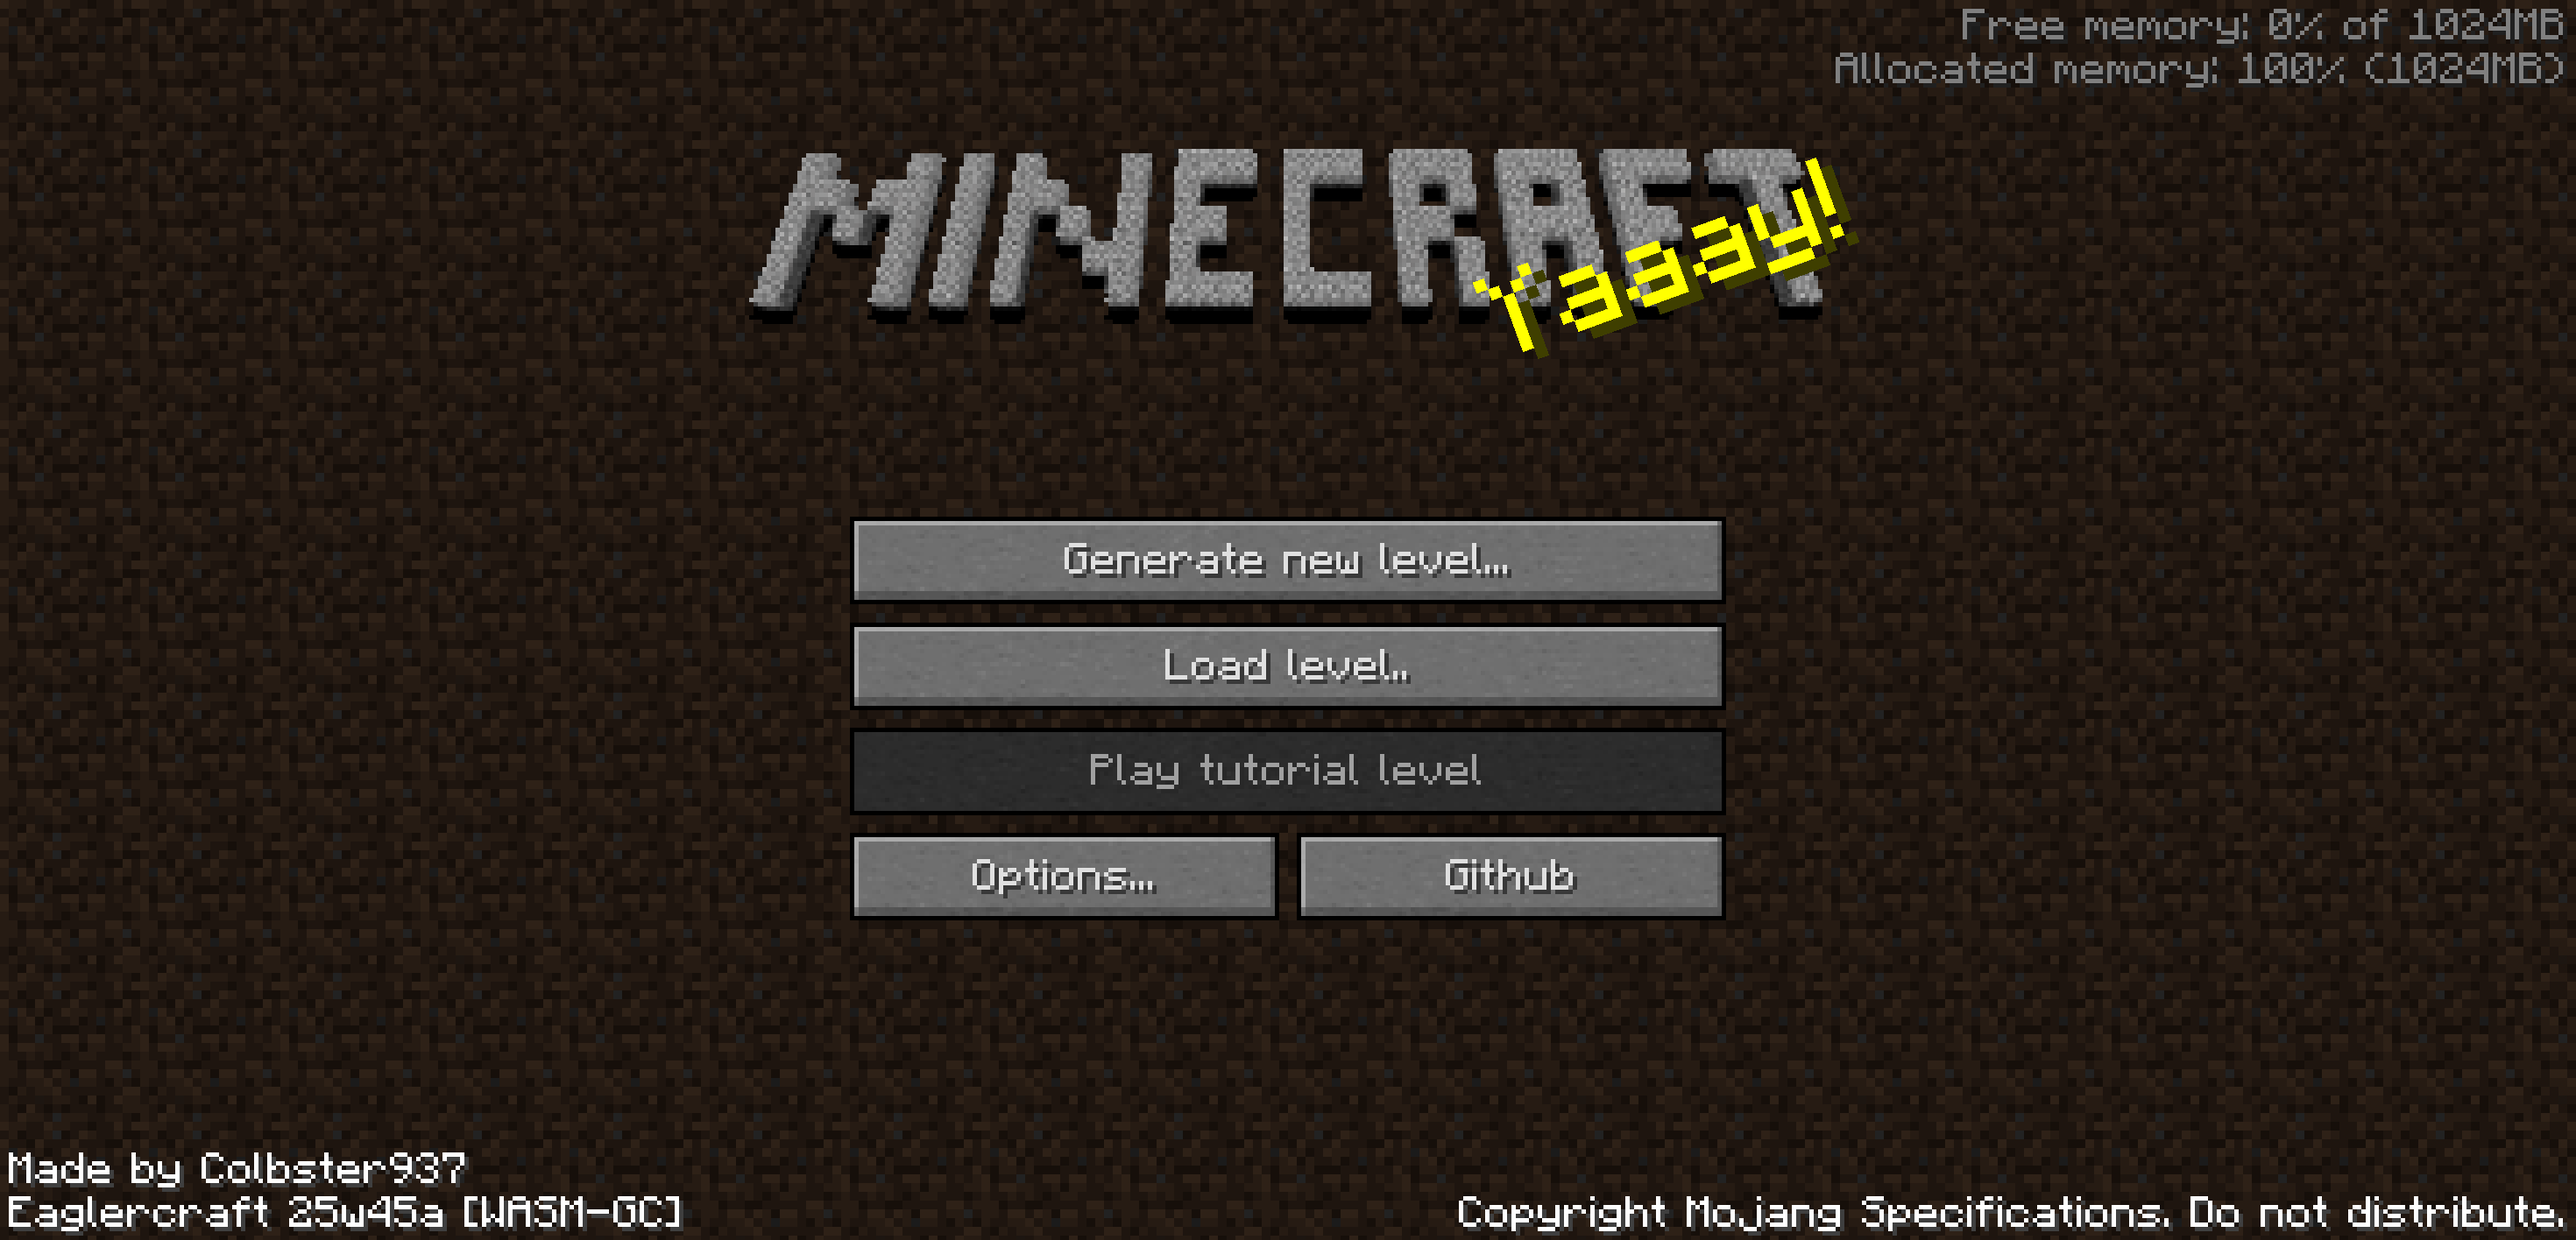
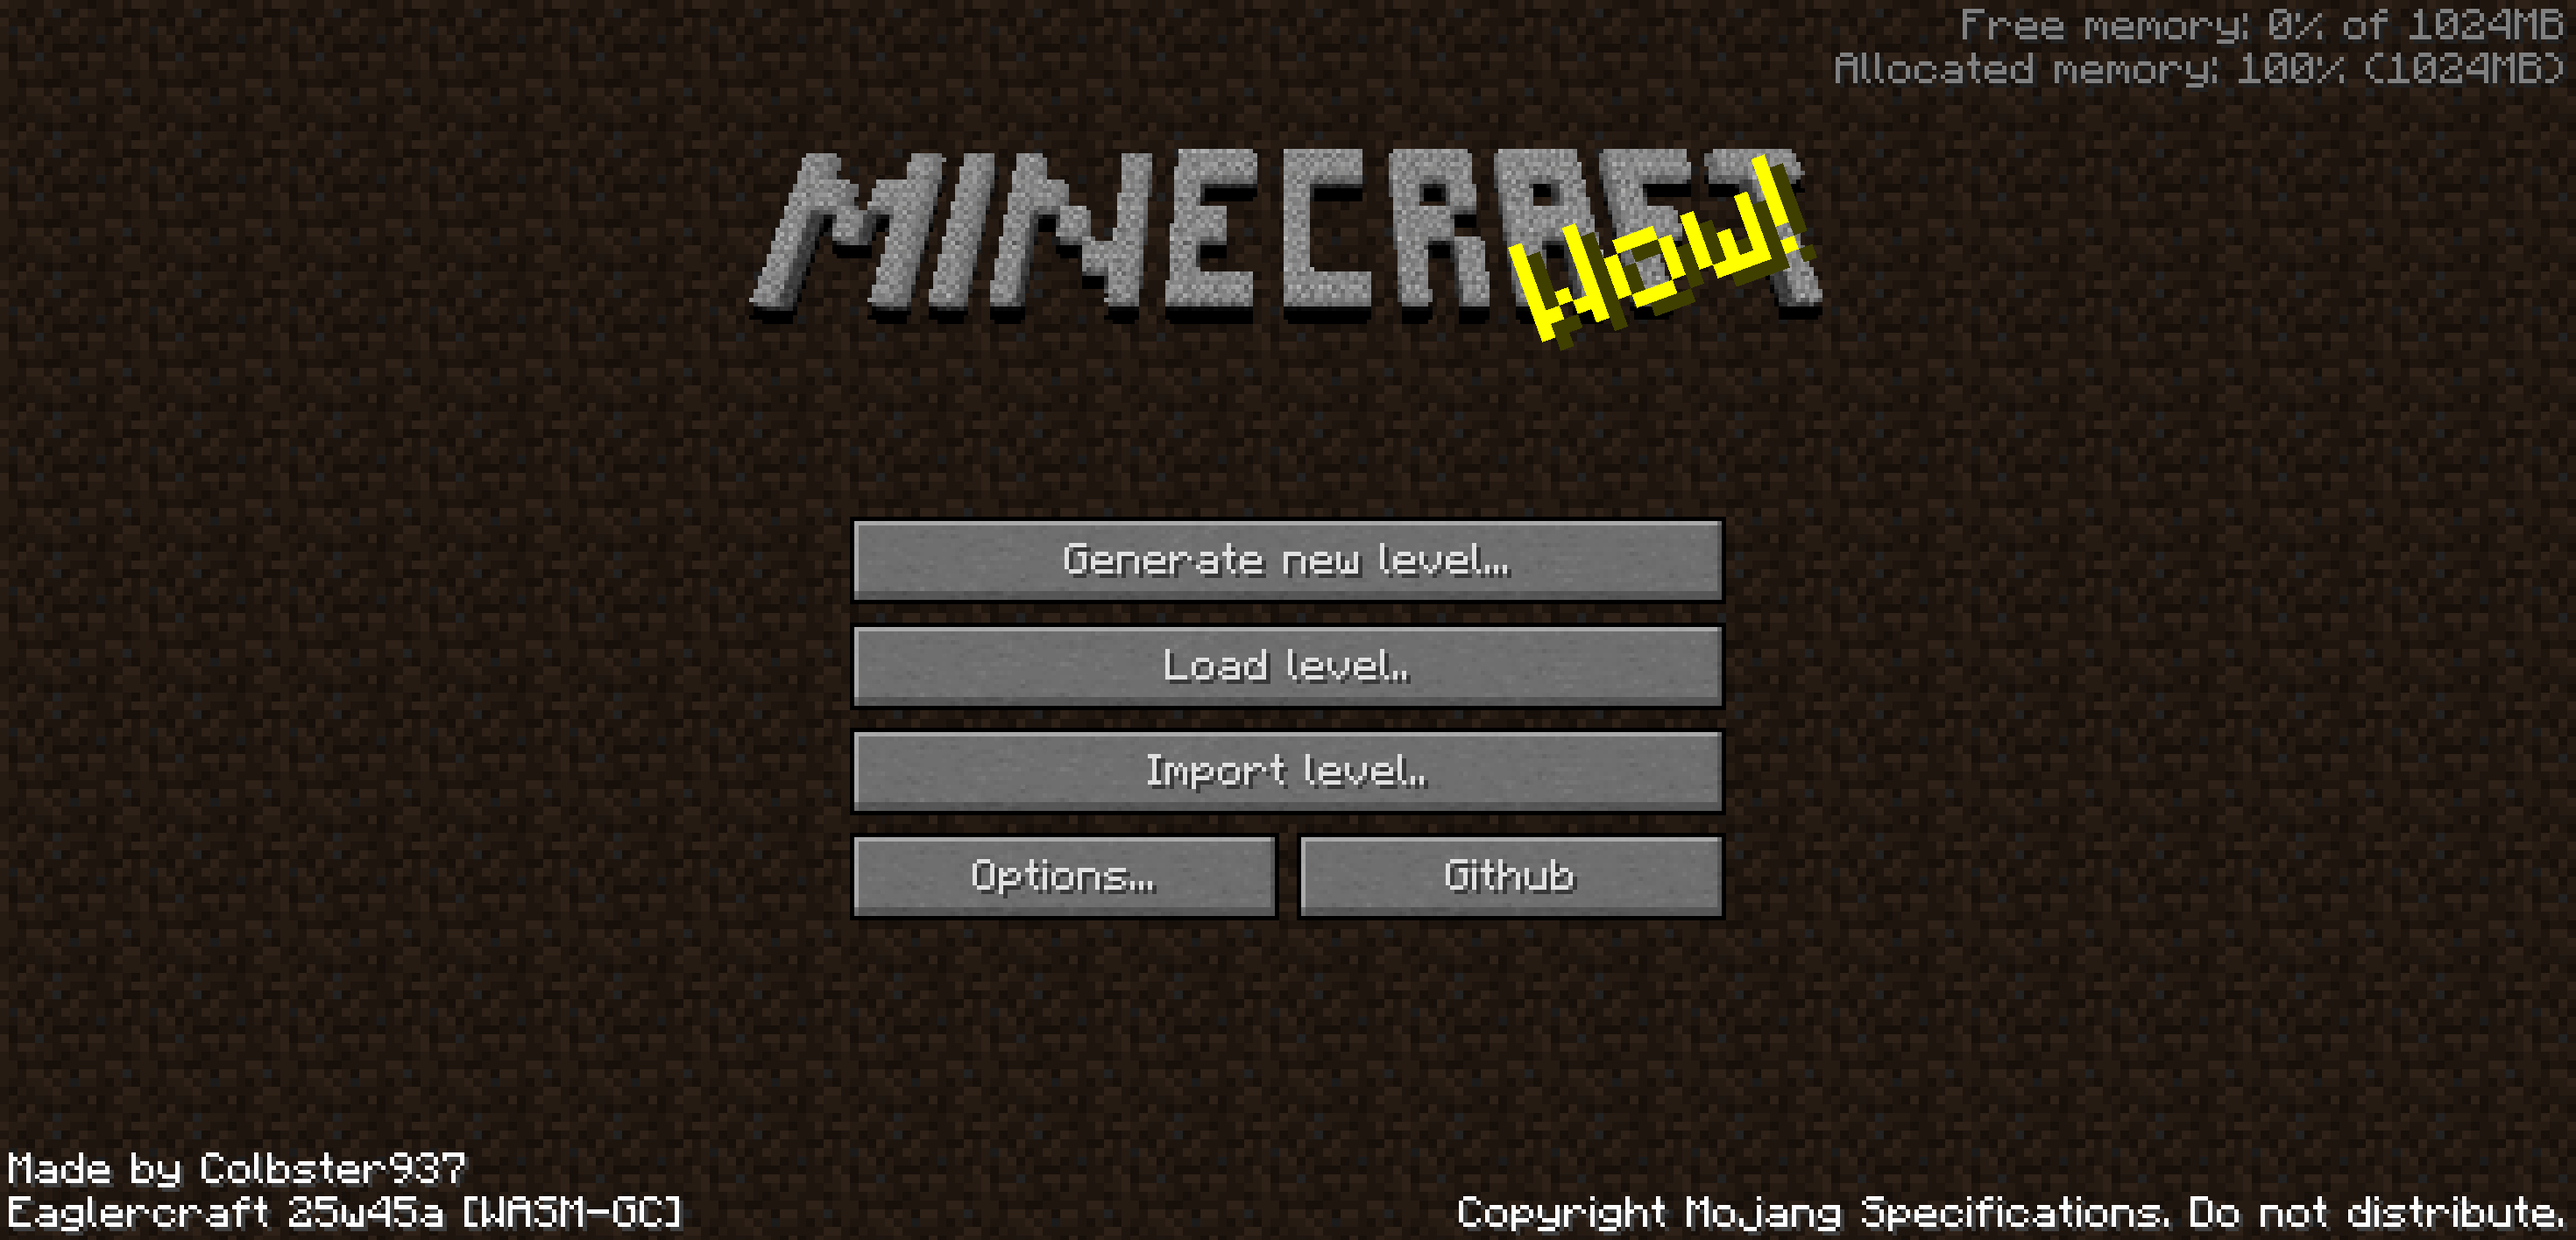
add level importing

Changed region(s): [[0.3095, 0.5904, 0.681, 0.6525], [0.5571, 0.1243, 0.7429, 0.2797]]

diff --git a/src/game/java/net/minecraft/client/gui/GuiIngameMenu.java b/src/game/java/net/minecraft/client/gui/GuiIngameMenu.java
@@ -10,8 +10,8 @@ public final class GuiIngameMenu extends GuiScreen {
 		this.controlList.clear();
 		this.controlList.add(new GuiButton(0, this.width / 2 - 100, this.height / 4, "Options..."));
 		this.controlList.add(new GuiButton(1, this.width / 2 - 100, this.height / 4 + 24, "Generate new level..."));
-		this.controlList.add(new GuiButton(2, this.width / 2 - 100, this.height / 4 + 48, "Save level.."));
-		this.controlList.add(new GuiButton(3, this.width / 2 - 100, this.height / 4 + 72, /* "Load */ "Export level.."));
+		this.controlList.add(new GuiButton(2, this.width / 2 - 100, this.height / 4 + 48, /* "Save */ "Export level.."));
+		this.controlList.add(new GuiButton(3, this.width / 2 - 100, this.height / 4 + 72, /* "Load */ "Import level.."));
 		this.controlList.add(new GuiButton(4, this.width / 2 - 100, this.height / 4 + 120, "Back to game"));
 		if(this.mc.session == null) {
 			((GuiButton)this.controlList.get(2)).enabled = false;
@@ -31,12 +31,11 @@ public final class GuiIngameMenu extends GuiScreen {
 
 		if(this.mc.session != null) {
 			if(var1.id == 2) {
-				LevelUtils.save();
+				LevelUtils.export();
 			}
 
 			if(var1.id == 3) {
-				LevelUtils.export();
-				// LevelUtils.load();
+				LevelUtils.load(true);
 			}
 		}
 

diff --git a/src/game/java/net/minecraft/client/GuiMainMenu.java b/src/game/java/net/minecraft/client/GuiMainMenu.java
@@ -31,8 +31,8 @@ public final class GuiMainMenu extends GuiScreen {
 		this.controlList.add(b = new GuiButton(1, this.width / 2 - 100, this.height / 4 + 48, "Generate new level..."));
 		this.controlList.add(b = new GuiButton(2, this.width / 2 - 100, this.height / 4 + 72, "Load level.."));
 		b.enabled = LevelUtils.savedLevel();
-		this.controlList.add(b = new GuiButton(3, this.width / 2 - 100, this.height / 4 + 96, "Play tutorial level"));
-		b.enabled = false;
+		this.controlList.add(b = new GuiButton(3, this.width / 2 - 100, this.height / 4 + 96, "Import level.."));
+		// b.enabled = false;
 		this.controlList.add(b = new GuiButton(0, this.width / 2 - 100, this.height / 4 + 120, 98, 20, "Options..."));
 		this.controlList.add(b = new GuiButton(4, this.width / 2 + 2, this.height / 4 + 120, 98, 20, "Github"));
 		/* ((GuiButton)this.controlList.get(2)).enabled = false;
@@ -52,7 +52,11 @@ public final class GuiMainMenu extends GuiScreen {
 		}
 
 		if(this.mc.session != null && var1.id == 2) {
-			LevelUtils.load();
+			LevelUtils.load(false);
+		}
+
+		if(this.mc.session != null && var1.id == 3) {
+			LevelUtils.load(true);
 		}
 
 		if(var1.id == 4) {

diff --git a/src/main/java/dev/colbster937/eaglercraft/LevelUtils.java b/src/main/java/dev/colbster937/eaglercraft/LevelUtils.java
@@ -59,10 +59,11 @@ public class LevelUtils {
     }
   }
 
-  public static void load() {
-    if (savedLevel())
+  public static void load(boolean upload) {
+    if (!upload && savedLevel())
       loadLevel(lf.getAllBytes());
-    // EagRuntime.displayFileChooser("minecraft/mclevel", ".mclevel");
+    else if (upload)
+      EagRuntime.displayFileChooser("minecraft/mclevel", ".mclevel");
   }
 
   private static void loadLevel(byte[] data) {
@@ -79,8 +80,10 @@ public class LevelUtils {
   }
 
   public static void tick(int i) {
-    if (i == 1) levelSaved = false;
-		else if (i == 20) save(false);
+    if (i == 1)
+      levelSaved = false;
+    else if (i == 20)
+      save(false);
     if (EagRuntime.fileChooserHasResult()) {
       FileChooserResult result = EagRuntime.getFileChooserResult();
       if (result.fileName.endsWith(".mclevel")) {

diff --git a/src/game/java/net/minecraft/client/gui/GuiGameOver.java b/src/game/java/net/minecraft/client/gui/GuiGameOver.java
@@ -29,7 +29,7 @@ public final class GuiGameOver extends GuiScreen {
 		}
 
 		if(this.mc.session != null && var1.id == 2) {
-			LevelUtils.load();
+			LevelUtils.load(false);
 		}
 
 	}
